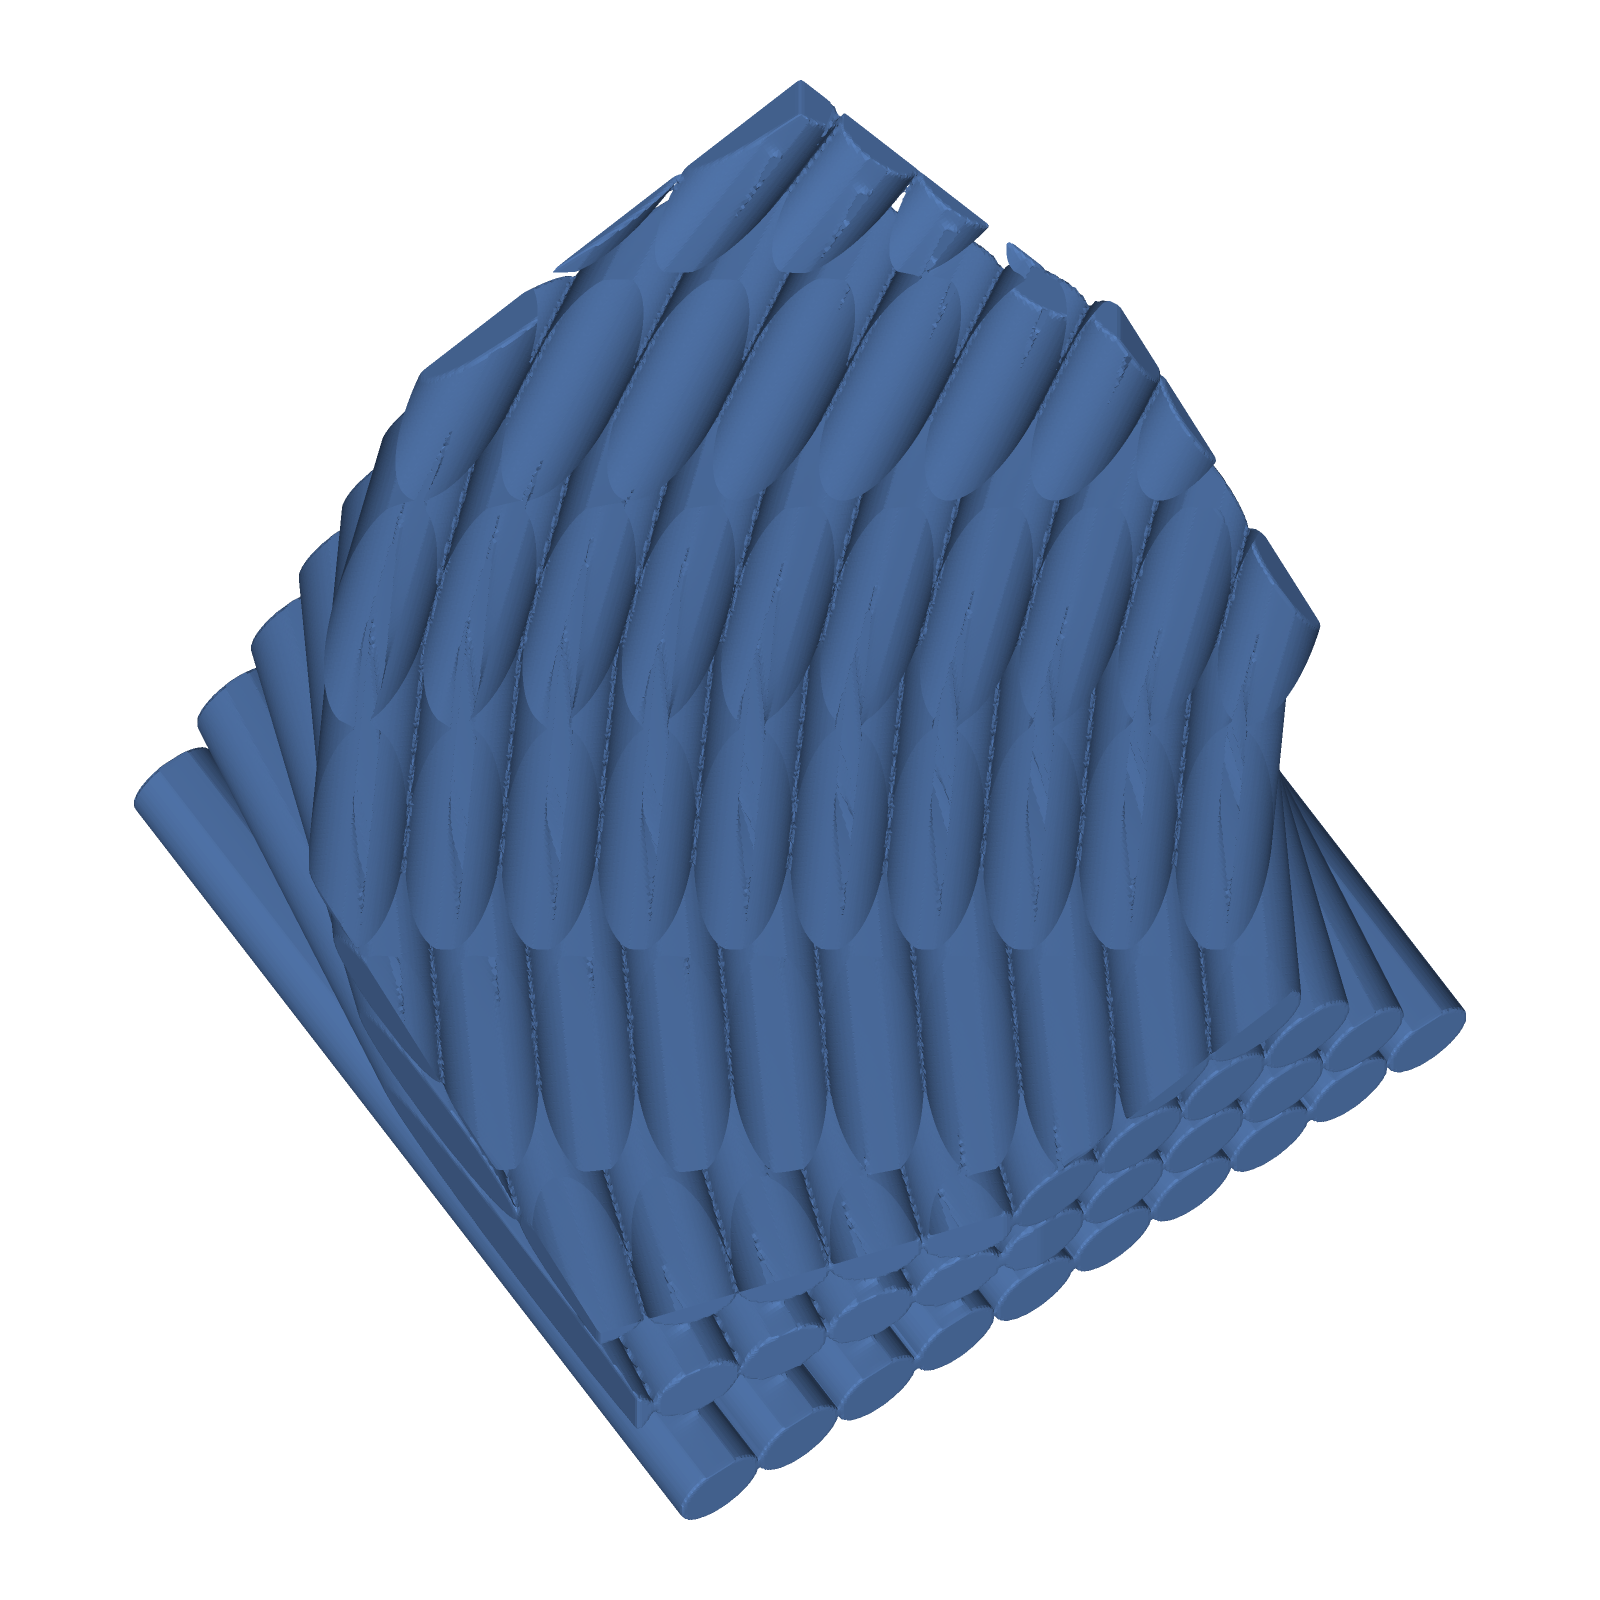
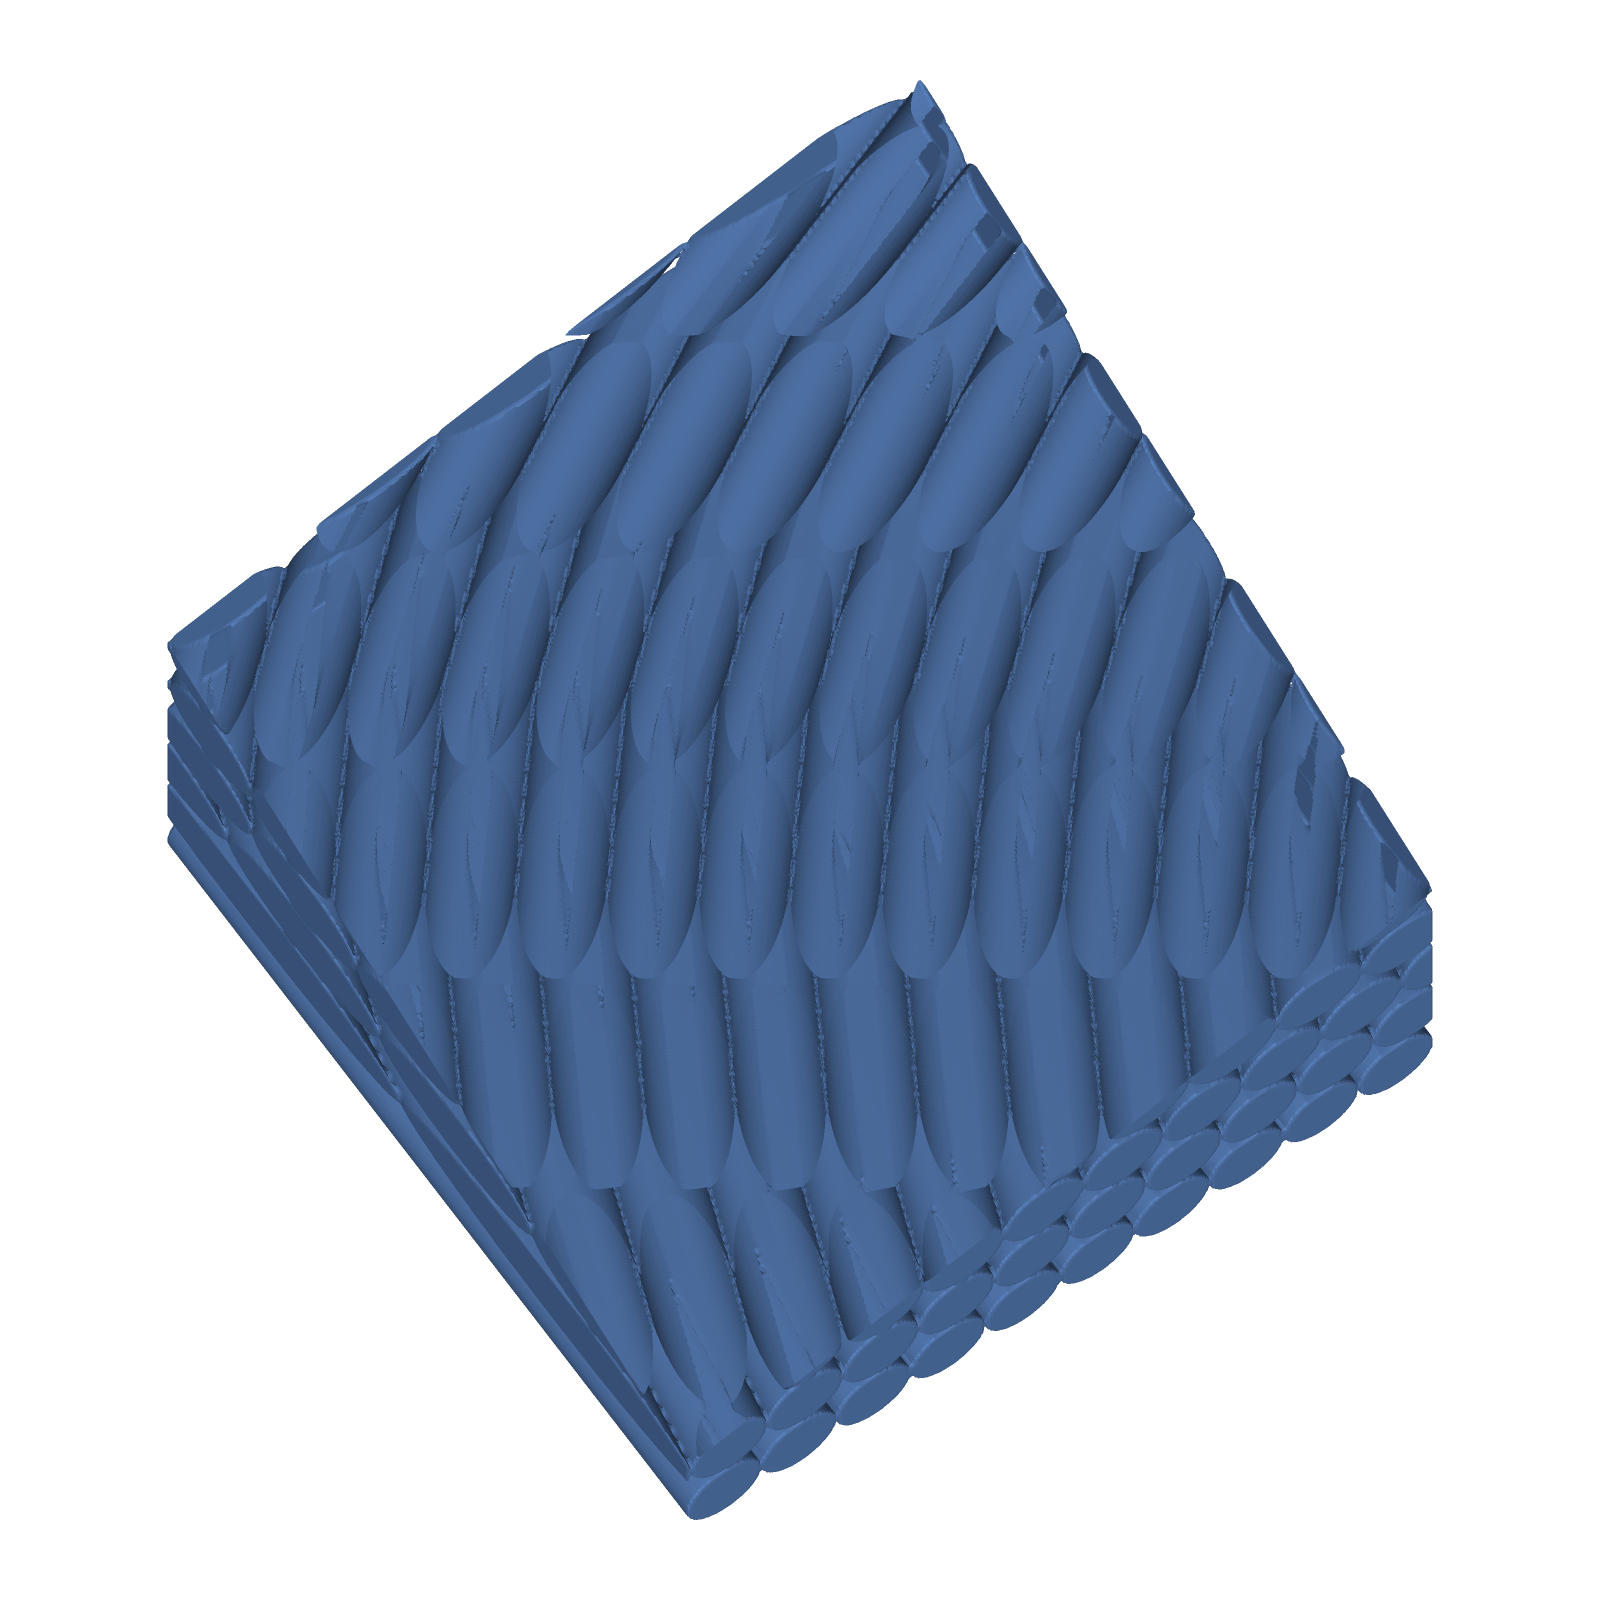
Helical fibre plies reach the envelope corners (rect and cylinder fibres)
- families.ts: fibre half-length sqrt(2) (was 1) and fibre centre grid extended past the envelope
  (same pitch and start as upstream; fibres outside the envelope are clipped). Removes the wall notches
  of rectfibers and cylinfibers. Plate plies are unchanged: filling the envelope would remove the helix.
- brep.ts: matching fibre lengths for the B-Rep path.
- Re-run: bio_helical_rectfibers 7616.441 mm3, bio_helical_cylinfibers 6272.996 mm3 (MC < 0.1 %), both PASS.
- README/OPEN_STATUS: plate teeth remain open (decision needed); fibre notches fixed.

diff --git a/src/bio/families.ts b/src/bio/families.ts
@@ -96,21 +96,27 @@ function buildHelical(
   }
   // Fiber layout inside a ply (replicates the upstream start/pitch arithmetic).
   const gap = 0.01;
+  // Fibre centres on the upstream grid (same start and pitch), extended beyond the envelope to sqrt(2) plus one
+  // pitch, so that rotated fibres at the envelope edges are not missing. Fibres outside the envelope are clipped.
+  const gridCentres = (start: number, pitch: number): number[] => {
+    const lim = Math.SQRT2 + pitch;
+    const kLo = Math.floor((-lim - start) / pitch);
+    const kHi = Math.ceil((lim - start) / pitch);
+    const out: number[] = [];
+    for (let k = kLo; k <= kHi; k++) out.push(start + k * pitch);
+    return out;
+  };
   const fiberCenters: number[][] = [];
   const pitches: number[] = [];
   for (let i = 0; i < N; i++) {
     if (fiber === "rect") {
       const pitch = t + gap;
-      const M = Math.max(1, Math.floor(2 / pitch));
-      const total = M * pitch;
-      const start = -1 + pitch / 2 + (2 - total) / 2;
-      fiberCenters.push(Array.from({ length: M }, (_, k) => start + k * pitch));
+      const start = -1 + pitch / 2 + (2 - pitch * Math.max(1, Math.floor(2 / pitch))) / 2;
+      fiberCenters.push(gridCentres(start, pitch));
       pitches.push(pitch);
     } else if (fiber === "cyl") {
-      const M = Math.max(1, Math.floor(2 / t));
-      const total = M * t;
-      const start = -1 + t / 2 + (2 - total) / 2;
-      fiberCenters.push(Array.from({ length: M }, (_, k) => start + k * t));
+      const start = -1 + t / 2 + (2 - t * Math.max(1, Math.floor(2 / t))) / 2;
+      fiberCenters.push(gridCentres(start, t));
       pitches.push(t);
     } else {
       fiberCenters.push([]);
@@ -128,6 +134,9 @@ function buildHelical(
   const cosS = angles.map((a) => Math.cos((a * Math.PI) / 180));
   const sinS = angles.map((a) => Math.sin((a * Math.PI) / 180));
   const radius = t / 2;
+  // Fibres are longer than the envelope width (half-length sqrt(2) in envelope units): a fibre of half-length 1
+  // leaves the corners of the envelope uncovered once rotated, which produced notches on the walls.
+  const FIBRE_HALF_LENGTH = Math.SQRT2;
 
   const field = (x: number, y: number, z: number): number => {
     const i = Math.min(N - 1, Math.max(0, Math.floor(z / t)));
@@ -147,7 +156,7 @@ function buildHelical(
       let best = Infinity;
       for (let k = k0 - 1; k <= k0 + 1; k++) {
         if (k < 0 || k >= centers.length) continue;
-        best = Math.min(best, sdBox(xr, yr - centers[k], dz, 1, radius, radius));
+        best = Math.min(best, sdBox(xr, yr - centers[k], dz, FIBRE_HALF_LENGTH, radius, radius));
       }
       return best;
     }
@@ -158,7 +167,7 @@ function buildHelical(
       let best = Infinity;
       for (let k = k0 - 1; k <= k0 + 1; k++) {
         if (k < 0 || k >= centers.length) continue;
-        best = Math.min(best, sdCylinderX(xr, yr - centers[k], dz, radius, 1));
+        best = Math.min(best, sdCylinderX(xr, yr - centers[k], dz, radius, FIBRE_HALF_LENGTH));
       }
       return best;
     }
@@ -169,7 +178,7 @@ function buildHelical(
     fiber === "plate"
       ? `plies i=0..${N - 1}: sdBox(R(-theta_i)(x,y), z-(i+1/2)t; 1,1,t/2), t=2/${N}, theta_i=${rot}*i${noiseDeg ? ` + U(-${noiseDeg},${noiseDeg})` : ""}`
       : fiber === "rect"
-        ? `plies with rectangular fibres (t x t bars along x, pitch t+${gap}); theta_i=${rot}*i${noiseDeg ? ` + U(-${noiseDeg},${noiseDeg})` : ""}`
+        ? `plies with rectangular fibres (t x t bars along x, half-length sqrt(2), pitch t+${gap}); theta_i=${rot}*i${noiseDeg ? ` + U(-${noiseDeg},${noiseDeg})` : ""}`
         : `plies with cylindrical fibres (r=t/2 along x, pitch t); theta_i=${rot}*i${noiseDeg ? ` + U(-${noiseDeg},${noiseDeg})` : ""}`;
 
   if (fiber === "plate") notes.push("Plies are plates clipped to the build cube (square corners retained).");

diff --git a/src/geometry/brep.ts b/src/geometry/brep.ts
@@ -70,16 +70,19 @@ export async function buildBrep(plan: BrepPlan, sizeMm: number): Promise<BrepSol
     const plies: any[] = [];
     for (const ply of plan.plies) {
       const tp = ply.thickness * S;
+      // Fibres span sqrt(2) of the envelope half-width (matches the field in families.ts), so rotated fibres reach
+      // the envelope corners. Plates keep the 2S size: a longer plate would fill the envelope and remove the helix.
+      const FIBRE = S * Math.SQRT2;
       let piece: any;
       if (plan.fiber === "plate") {
         piece = Box(2 * S, 2 * S, tp);
       } else if (plan.fiber === "rect") {
         piece = fuseAll(
-          ply.fiberCentersY.map((yk) => Pos(0, yk * S, 0).mul(Box(2 * S, tp, tp))),
+          ply.fiberCentersY.map((yk) => Pos(0, yk * S, 0).mul(Box(2 * FIBRE, tp, tp))),
         );
       } else {
         piece = fuseAll(
-          ply.fiberCentersY.map((yk) => Pos(0, yk * S, 0).mul(Rot(0, 90, 0).mul(Cylinder(tp / 2, 2 * S)))),
+          ply.fiberCentersY.map((yk) => Pos(0, yk * S, 0).mul(Rot(0, 90, 0).mul(Cylinder(tp / 2, 2 * FIBRE)))),
         );
       }
       const zc = (ply.zCenter - 1) * S; // centred z

diff --git a/examples/structure_gallery_256/README.md b/examples/structure_gallery_256/README.md
@@ -6,7 +6,7 @@ and its volume is compared with a grid-free Monte Carlo estimate (MC) of the imp
 
 Run: `GALLERY_OUT=examples/structure_gallery_256 node --experimental-strip-types --no-warnings scripts/structure_gallery.ts 256`
 
-**Result: 36/36 PASS** (last full run, same code as this commit). The five deep-fusion designs at 256 cells are in
+**Result: 36/36 PASS.** Full run before the fibre fix; the two fibre entries (`bio_helical_rectfibers`, `bio_helical_cylinfibers`) were re-run after it. The fibre change touches only those two designs. The five deep-fusion designs at 256 cells are in
 `examples/deep_fusion_256/` (5/5 PASS). Lower resolutions are kept in separate folders (`examples/structure_gallery/` at 96/192 cells); they are not merged.
 
 ## Images
@@ -27,13 +27,12 @@ Per design: `screenshot.png` (iso cut-away, shows the interior) and `view_top.pn
 4. **Ply walls of two helical deep designs raised** (`fieldfuse_r2` wall 0.7 → 1.1 mm; `fieldfuse_r5` thickness 0.7–1.0 → 1.1–1.4 mm; see `scripts/structure_gallery.ts`). The `deep_R*` coupled designs are unchanged.
    The sheet distance is approximated by |F|/|∇F|, which under-sizes highly curved twisted gyroid sheets: the 5th-percentile chord
    is about 0.4 × the design wall at 0.7 mm. At the new walls the chord floor is met (0.42–0.44 mm), with less margin than the other entries. An exact sheet distance would remove this need.
-5. **Grid offset and `clipSign`** (earlier commits `a2ad9c4`, `d3ce231`): the box clip no longer creates exact-zero ties on the face and the sampling grid has no node on a face or strut plane.
+5. **Helical fibre plies (rectfibers, cylinfibers) reach the envelope corners.** Fibres were half-length 1 (envelope half-width) and their centre grid stopped at the envelope edge, so rotated fibres left notches at the walls. Fibres now have half-length sqrt(2) and the centre grid extends beyond the envelope (fibres outside it are clipped). Unlike plates, a fibre set does not fill the box, so the helix stays visible. Volumes rose (rectfibers 6581.9 → 7616.4 mm³, cylinfibers 5620.8 → 6273.0 mm³) because the corners are now filled; both MC checks pass (< 0.1 %).
+6. **Grid offset and `clipSign`** (earlier commits `a2ad9c4`, `d3ce231`): the box clip no longer creates exact-zero ties on the face and the sampling grid has no node on a face or strut plane.
 
 ## Known open items
 
-- **Helical plate plies show triangular teeth at the walls.** Each ply is a 20 mm square plate rotated about z and clipped to the envelope; the corners
-  left uncovered by the rotation show as triangles on the walls. A fix that extends each ply to cover the envelope (REACH = S√2) was tried and rejected:
-  the plates then fill the whole envelope (volume 8000 mm³), so the helical rotation disappears. The teeth are a feature of plate plies; a real fix needs fibre plies (rect/cylindrical), which changes the design family. Not done.
+- **Helical plate plies show triangular teeth at the walls** (`bio_helical_generic`, `bio_helical_noise`, `fusion_helical_cap_iwp`, `fusion_gyroid_plus_helical`). Each plate is 2S square and rotates about z, so the corners it leaves uncovered show as notches on the walls. Extending the plate to cover the envelope fills the box (8000 mm³) and removes the helix, so the plate variant was left as is. Open: a decision is needed (accept the notches, or change the plate to fibres).
 - Deep R2/R5 ply twist is hard to see at this scale (coupling effect 52–55 %, measured numerically).
 - `coupled.ts` core clip still uses `max(field, sdBox)`. This gives the same solid set as `clipSign` (the field differs only outside the envelope), and the designs pass, so it was left unchanged.
 
@@ -67,8 +66,8 @@ Per design: `screenshot.png` (iso cut-away, shows the interior) and `view_top.pn
 | id | volume (mm³) | components | min wall (mm) | MC check | 256 vs 320 | result |
 |---|---|---|---|---|---|---|
 | bio_helical_generic | 7165.920 | 1 | 4.000 | 0.00 % | 0.00 % | PASS |
-| bio_helical_rectfibers | 6581.917 | 1 | 2.000 | 0.01 % | 0.00 % | PASS |
-| bio_helical_cylinfibers | 5620.762 | 1 | 1.971 | 0.06 % | 0.12 % | PASS |
+| bio_helical_rectfibers | 7616.441 | 1 | 1.205 | 0.07 % | 0.00 % | PASS |
+| bio_helical_cylinfibers | 6272.996 | 1 | 1.869 | 0.05 % | 0.11 % | PASS |
 | bio_helical_noise | 7168.368 | 1 | 4.000 | 0.02 % | 0.00 % | PASS |
 | bio_cellular_generic | 5765.656 | 1 | 1.649 | 0.20 % | 0.01 % | PASS |
 | bio_cellular_voronoi | 5770.893 | 1 | 1.640 | 0.29 % | 0.01 % | PASS |

diff --git a/examples/structure_gallery_256/OPEN_STATUS.md b/examples/structure_gallery_256/OPEN_STATUS.md
@@ -1,6 +1,6 @@
 # Open (skin-free) gallery at 256 cells: status
 
-Status: **41/41 designs PASS** (36 in this folder, 5 in `examples/deep_fusion_256/`), all open, all with cut-away and three further
+Status: **41/41 designs PASS** (the fibre fix re-ran the two helical fibre entries) (36 in this folder, 5 in `examples/deep_fusion_256/`), all open, all with cut-away and three further
 cut-away views, no exterior skin images. The validated numbers are in `README.md` in each folder and in `gallery.json`.
 
 ## What was wrong and what was fixed
@@ -20,9 +20,10 @@ cut-away views, no exterior skin images. The validated numbers are in `README.md
 
 ## Open items
 
-- **Helical plate plies show triangular teeth on the walls** (`bio_helical_generic`, `fusion_helical_cap_iwp`). The cause is the rotated 20 mm plate
-  clipped to the envelope. A REACH fix (extend the plate to S√2) was tried and rejected: the plate then fills the whole envelope (8000 mm³) and the helix disappears.
-  A proper fix needs fibre plies (rect or cylindrical), which changes the design family. Not done; a decision for the user.
+- **Helical plate plies show triangular teeth on the walls** (`bio_helical_generic`, `bio_helical_noise`, `fusion_helical_cap_iwp`, `fusion_gyroid_plus_helical`).
+  The cause is the rotated 2S plate clipped to the envelope. Extending the plate to cover the envelope fills the box (8000 mm³) and removes the helix, so it was rejected.
+  Open: accept the notches, or change the plate variant to fibres. Decision for the user.
+- Fibre plies (rectfibers, cylinfibers) had the same notches; they are fixed (longer fibres, centre grid extended past the envelope). Their volumes rose by 6–16 %.
 - The sheet SDF `|F|/|∇F|` is approximate. An exact or Newton-projected sheet distance would allow the thinner deep walls back.
 - `coupled.ts` core clip stays as `max(field, sdBox)`. It defines the same solid as `clipSign`, and the designs pass.
 - Helical wall statistic reports p5 = 4 mm and 2 mm for the B-Rep plate designs: the chord statistic is not meaningful for those plates (they are planar slabs).
